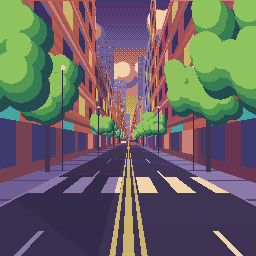
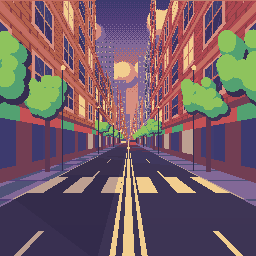
Street step 1: brick and window detail, smaller trees
Claude-Session: https://claude.ai/code/session_018A3EjUJwum2xaBpGm7gsrV

diff --git a/games/background/street/make_street.py b/games/background/street/make_street.py
@@ -58,10 +58,20 @@ for x in range(W):
             if 2.3<=fh<2.9: c=hx("#d8434f") if (bi+int(z/5))%2 else hx("#3fa7a3")
         else:
             if fh>2.85: c=lerp(base,(255,225,170),.25)
-            elif 0.7<fh<2.5 and 0.5<wz<1.9:
+            elif 0.62<fh<2.58 and 0.42<wz<2.02:
+                inner=0.75<fh<2.45 and 0.55<wz<1.9
                 lit_w=((bi*7+fl*13+int(z/2.6)*5)%10)<3
-                c=LIT if lit_w else (GLASS if fh>2.2 else NAVY)
-            elif z<14 and int(h*2.5)%2==0: c=lerp(base,(0,0,0),.10)
+                if not inner: c=lerp(base,(255,225,190),.45)            # frame
+                elif abs(wz-1.22)<0.05 or abs(fh-1.6)<0.06: c=lerp(base,(255,225,190),.3)  # mullions
+                elif lit_w: c=LIT if fh<1.6 else lerp(LIT,(255,245,200),.5)
+                else:
+                    c=NAVY if fh<1.6 else lerp(NAVY,GLASS,.35)
+                    if (wz*2.2+fh)%1.3<0.18: c=lerp(c,GLASS,.55)           # glass streak
+            elif 0.5<fh<=0.62 and 0.35<wz<2.1: c=lerp(base,(255,225,190),.5)   # sill
+            elif z<32:
+                row=int(h*3.2); off=0.5 if row%2 else 0.0
+                if (h*3.2)%1<0.14 or ((z*1.1+off)%1)<0.1: c=lerp(base,(0,0,0),.28)
+                elif ((row*5+int(z*1.1+off)*3)%7)==0: c=lerp(base,(255,200,160),.12)
         if y==max(0,ytop) or y==ytop+1: c=lerp(base,(255,225,170),.35) if side==1 else lerp(base,(255,200,150),.2)
         px[x,y]=fog(c,z)
     # ground
@@ -82,7 +92,7 @@ for x in range(W):
 # trees, lamps
 G=[hx("#1f4a4e"),hx("#2f7a52"),hx("#4f9a50"),hx("#8cc45c")]
 def tree(side,z):
-    s=F/z; X=side*3.7; sx=VX+X*s; gy=VY+CAMH*s; cy=VY+(CAMH-3.6)*s; r=1.9*s
+    s=F/z; X=side*3.7; sx=VX+X*s; gy=VY+CAMH*s; cy=VY+(CAMH-3.3)*s; r=1.2*s
     for y in range(int(cy),int(gy)):
         for x in range(int(sx-s*0.09),int(sx+s*0.09)+1):
             if 0<=x<W and 0<=y<H: px[x,y]=fog(hx("#4a2f44"),z)
